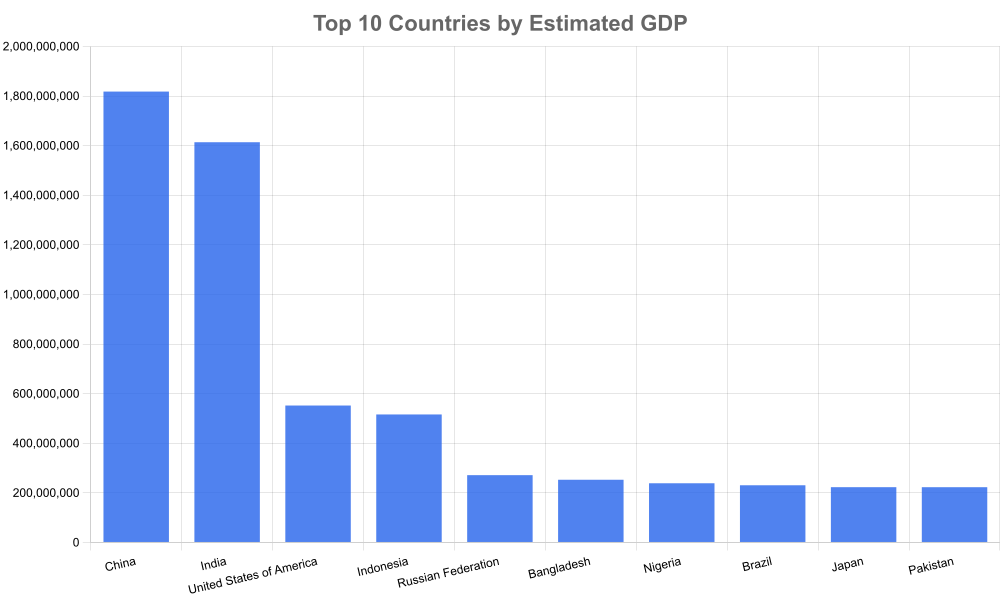
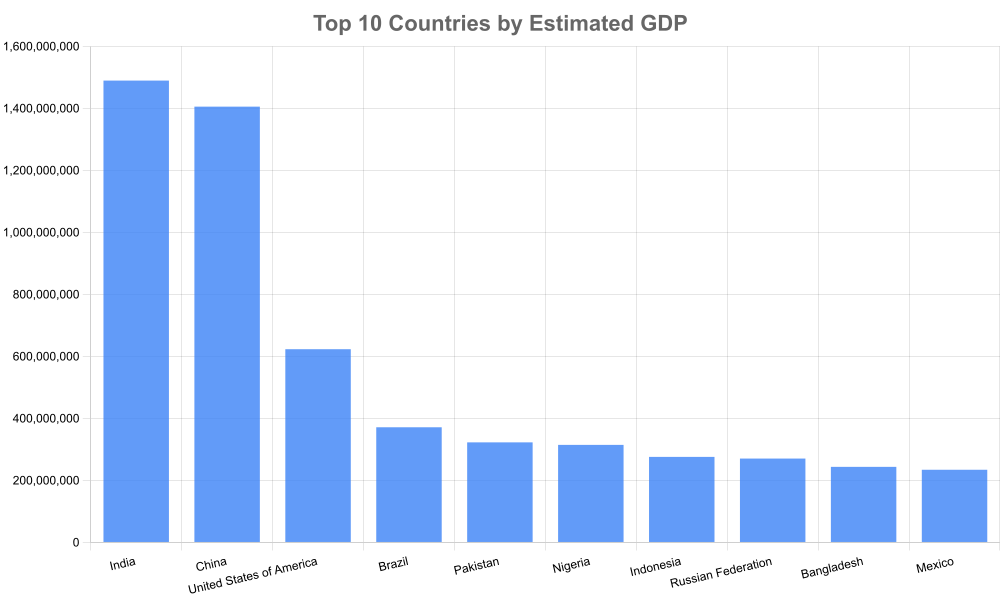
...

diff --git a/Server.js b/Server.js
@@ -14,7 +14,7 @@ app.use(express.json());
 await mongoose.connect(process.env.MONGO_URI || "mongodb://localhost:27017/country_cache");
 console.log("✅ Connected to MongoDB");
 
-// 🧱 Schema + Model
+// 🧱 Schema
 const countrySchema = new mongoose.Schema({
   name: String,
   capital: String,
@@ -25,19 +25,17 @@ const countrySchema = new mongoose.Schema({
   exchange_rate: Number,
   estimated_gdp: Number,
 });
-
 const Country = mongoose.model("Country", countrySchema);
 
-// 📁 File path for chart
 const cachePath = path.join(process.cwd(), "summary.png");
 
-// 📊 Generate GDP summary chart
+// ⚡ Fast Chart Generation (Top 10 GDP)
 async function generateSummaryImage() {
   const countries = await Country.find().sort({ estimated_gdp: -1 }).limit(10);
-  if (countries.length === 0) return null;
+  if (!countries.length) return null;
 
-  const chart = new ChartJSNodeCanvas({ width: 1000, height: 600 });
-  const configuration = {
+  const chart = new ChartJSNodeCanvas({ width: 900, height: 500 });
+  const cfg = {
     type: "bar",
     data: {
       labels: countries.map((c) => c.name),
@@ -50,60 +48,45 @@ async function generateSummaryImage() {
       ],
     },
     options: {
-      plugins: {
-        title: {
-          display: true,
-          text: "Top 10 Countries by Estimated GDP",
-          font: { size: 22 },
-        },
-        legend: { display: false },
-      },
-      scales: {
-        x: { ticks: { color: "#000" } },
-        y: { ticks: { color: "#000" } },
-      },
+      plugins: { legend: { display: false } },
+      scales: { x: { ticks: { color: "#000" } }, y: { ticks: { color: "#000" } } },
     },
   };
-
-  const buffer = await chart.renderToBuffer(configuration, "image/png");
-  fs.writeFileSync(cachePath, buffer);
-  console.log("✅ PNG chart created:", cachePath);
-  return cachePath;
+  fs.writeFileSync(cachePath, await chart.renderToBuffer(cfg, "image/png"));
+  console.log("✅ Summary PNG generated");
 }
 
-// 🟢 POST /countries/refresh
+// 🟢 POST /countries/refresh — Fast bulk load
 app.post("/countries/refresh", async (req, res) => {
+  console.log("📡 Incoming POST /countries/refresh");
   try {
-    console.log("🌍 Refreshing countries...");
-    const response = await fetch(
-      "https://restcountries.com/v2/all?fields=name,capital,region,population,flag,currencies"
-    );
-    const data = await response.json();
+    console.log("🌍 Fetching countries...");
+    const api = "https://restcountries.com/v2/all?fields=name,capital,region,population,flag,currencies";
+    const response = await fetch(api);
+    const countries = await response.json();
 
+    if (!Array.isArray(countries)) throw new Error("Invalid API response");
+
+    // Drop + bulk insert
     await Country.deleteMany({});
-
-    const bulkOps = data.map((c) => {
+    const docs = countries.map((c) => {
       const currency_code = c.currencies?.[0]?.code || "USD";
-      const exchange_rate = Math.random() * (2000 - 1000) + 1000;
+      const exchange_rate = +(Math.random() * 1000 + 1000).toFixed(2);
       const estimated_gdp = Math.round((c.population * exchange_rate) / 1000);
-
       return {
-        insertOne: {
-          document: {
-            name: c.name,
-            capital: c.capital,
-            region: c.region,
-            population: c.population,
-            flag: c.flag,
-            currency_code,
-            exchange_rate,
-            estimated_gdp,
-          },
-        },
+        name: c.name,
+        capital: c.capital,
+        region: c.region,
+        population: c.population,
+        flag: c.flag,
+        currency_code,
+        exchange_rate,
+        estimated_gdp,
       };
     });
 
-    await Country.bulkWrite(bulkOps);
+    // ⚡ Super-fast insertMany (bulk write)
+    await Country.insertMany(docs, { ordered: false });
     await generateSummaryImage();
 
     const total = await Country.countDocuments();
@@ -116,14 +99,12 @@ app.post("/countries/refresh", async (req, res) => {
 
 // 🟢 GET /countries/image
 app.get("/countries/image", (req, res) => {
-  if (!fs.existsSync(cachePath)) {
-    return res.status(404).json({ error: "Summary image not found" });
-  }
+  if (!fs.existsSync(cachePath)) return res.status(404).json({ error: "Summary image not found" });
   res.setHeader("Content-Type", "image/png");
   res.sendFile(path.resolve(cachePath));
 });
 
-// 🟢 GET /countries (with filters & sorting)
+// 🟢 GET /countries (filter & sort)
 app.get("/countries", async (req, res) => {
   try {
     const { region, currency, sort } = req.query;
@@ -134,8 +115,7 @@ app.get("/countries", async (req, res) => {
     let query = Country.find(filter);
     if (sort === "desc") query = query.sort({ estimated_gdp: -1 });
 
-    const countries = await query;
-    res.json(countries);
+    res.json(await query);
   } catch (err) {
     res.status(500).json({ error: err.message });
   }
@@ -160,8 +140,7 @@ app.delete("/countries/:name", async (req, res) => {
     const result = await Country.deleteOne({
       name: { $regex: new RegExp(`^${req.params.name}$`, "i") },
     });
-    if (result.deletedCount === 0)
-      return res.status(404).json({ error: "Country not found" });
+    if (!result.deletedCount) return res.status(404).json({ error: "Country not found" });
     res.json({ message: "Country deleted successfully" });
   } catch (err) {
     res.status(500).json({ error: err.message });
@@ -172,14 +151,10 @@ app.delete("/countries/:name", async (req, res) => {
 app.get("/status", async (req, res) => {
   try {
     const total = await Country.countDocuments();
-    const stats = fs.existsSync(cachePath)
-      ? fs.statSync(cachePath)
-      : { mtime: new Date() };
-    res.json({
-      status: "ok",
-      total_countries: total,
-      last_refreshed_at: stats.mtime.toISOString(),
-    });
+    const lastRefreshed = fs.existsSync(cachePath)
+      ? fs.statSync(cachePath).mtime.toISOString()
+      : new Date().toISOString();
+    res.json({ status: "ok", total_countries: total, last_refreshed_at: lastRefreshed });
   } catch (err) {
     res.status(500).json({ error: err.message });
   }
@@ -188,6 +163,6 @@ app.get("/status", async (req, res) => {
 // 🟡 404 fallback
 app.use((req, res) => res.status(404).json({ error: "Not found" }));
 
-// 🚀 Server Start
+// 🚀 Server
 const PORT = process.env.PORT || 4000;
 app.listen(PORT, () => console.log(`🚀 Server running on port ${PORT}`));
